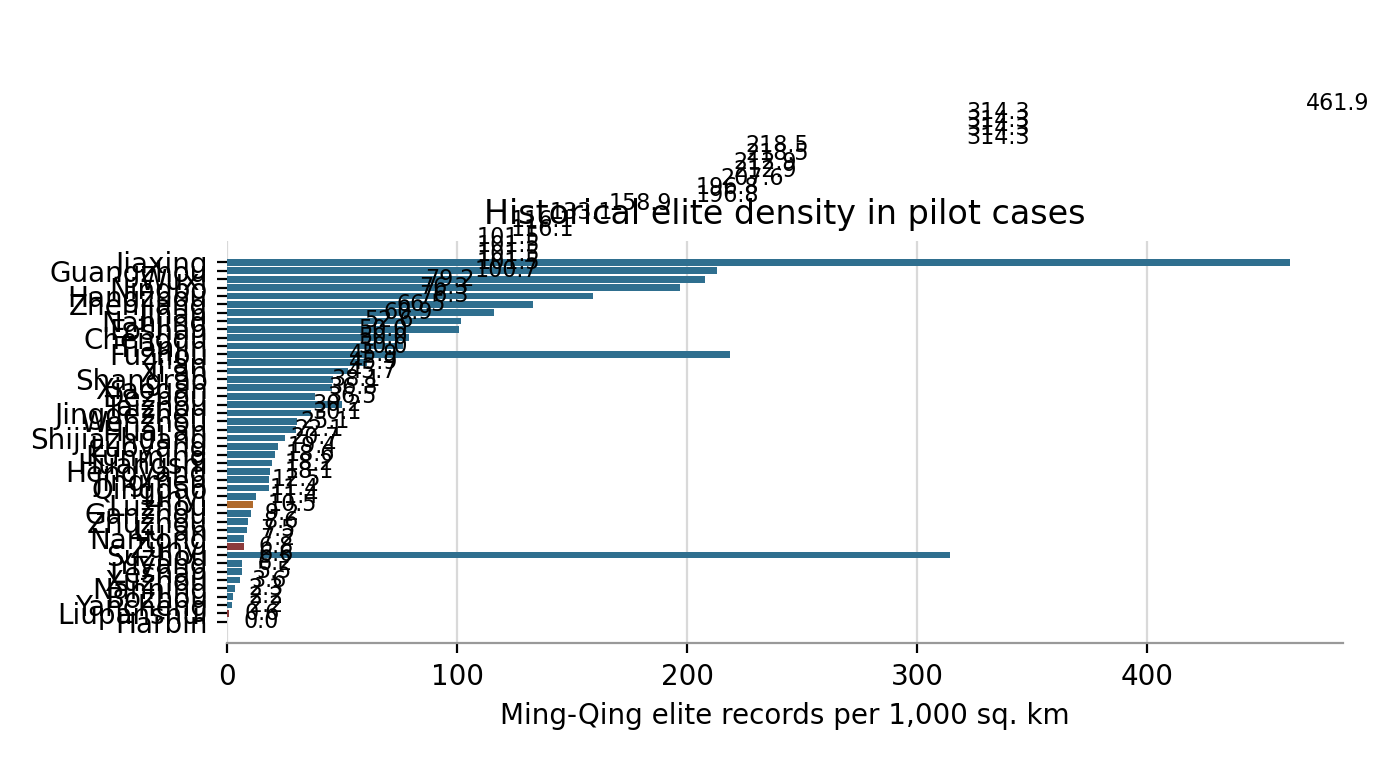
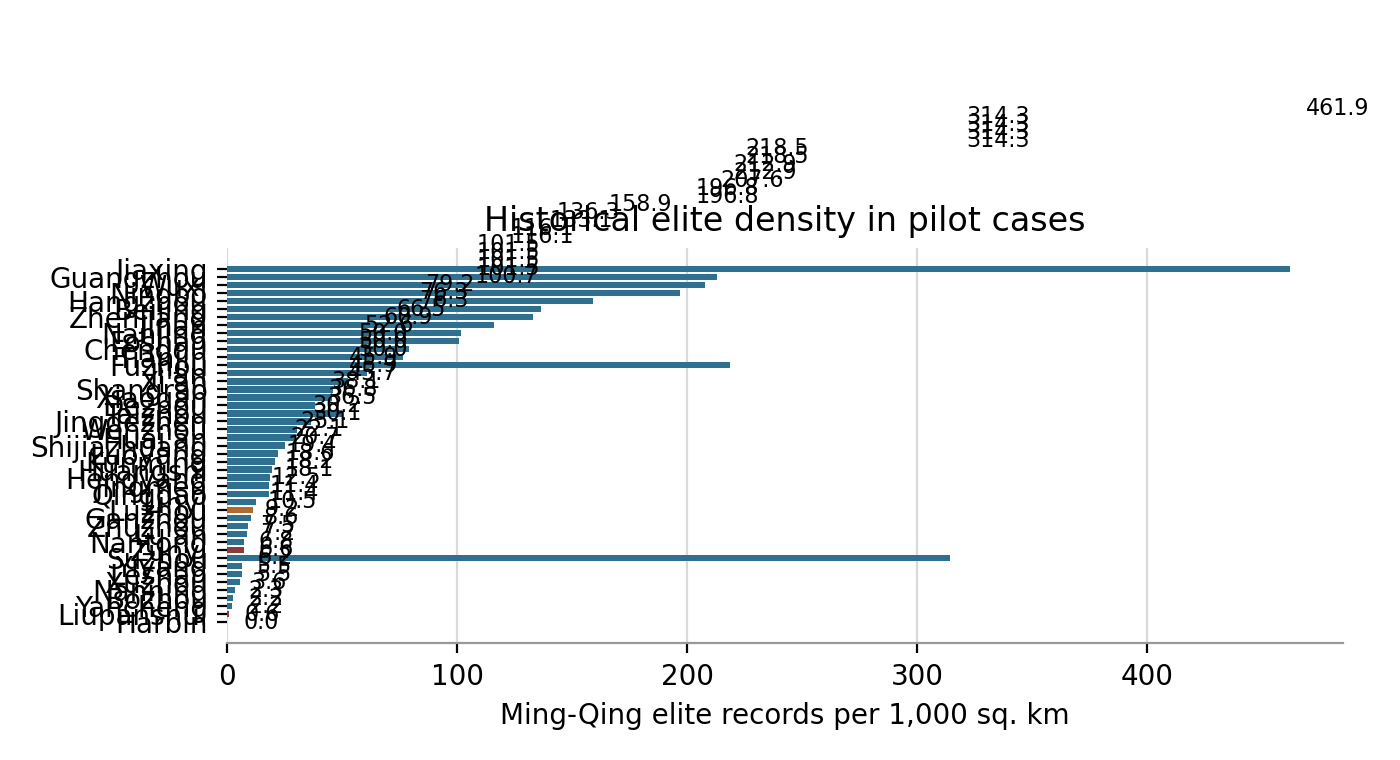
Promote surrogate queue cases to gold labels

Changed region(s): [[0.0, 0.1816, 0.9214, 0.8171], [0.6757, 0.1211, 0.7371, 0.2118], [0.9214, 0.1211, 0.9829, 0.1513]]

diff --git a/paper/sections/introduction.tex b/paper/sections/introduction.tex
@@ -86,23 +86,16 @@ financial news. Large language models generate preliminary labels under a
 fixed codebook, but final labels are assigned only after human review of the
 original documents.
 
-The current label file contains sixty-two human-validated city-platform
-cases and a seed pool of 257 candidate disclosures for later
-LLM-assisted screening. The validated labels already recover three distinct
-institutional outcomes. Guangzhou and Ningbo are coded as substantive exit.
-Hangzhou, Wenzhou, Foshan, and several reorganized platform cases are coded as
-functional transfer. Most validated cases are nominal exits, including
-transport, development-zone, cultural-tourism, county-level, and district
-platforms where no-government-financing language coexists with continuing
-public project functions. Jiaxing Jiaxiu shows this pattern even in a
-top-elite-density district. Guangzhou Metro and Nanjing Metro show that
-specialized rail platforms can retain public investment-financing functions
-even in high historical-capacity cities. Nanning adds a low-capacity
-western-capital case in which a real 2018 shift toward municipal fiscal funding
-for some projects coexists with shantytown government-purchase-service
-receivables, infrastructure assets, tolling, affordable-housing rental, and
-government support inside the same issuer group. A small descriptive comparison links the historically matched
-subset of these labels to historical-capacity bins. It is not yet a population
+The current label file contains sixty-eight human-validated city-platform
+cases and a seed pool of 257 candidate disclosures for LLM-assisted screening.
+The validated labels already recover three distinct institutional outcomes.
+Guangzhou and Ningbo are coded as substantive exit. Hangzhou, Wenzhou, Foshan,
+and several reorganized platform cases are coded as functional transfer. Most
+validated cases are nominal exits, including transport, development-zone,
+cultural-tourism, county-level, and district platforms where
+no-government-financing language coexists with continuing public project
+functions. A small descriptive comparison links the sixty-two historically
+matched labels to historical-capacity bins. It is not yet a population
 estimate, but it shows that the coding scheme recovers institutional variation
 and that the pilot already contains useful comparisons between high-capacity
 substantive cases and lower-capacity nominal cases.

diff --git a/paper/sections/empirical_strategy.tex b/paper/sections/empirical_strategy.tex
@@ -51,11 +51,11 @@ human-validated labels from candidate cases throughout the analysis.
 
 Table \ref{tab:pilot-validation-tiers} summarizes the validation status of the
 current evidence packets. The human-validated label file now contains
-sixty-two cases, and the broader screening file contains 257 disclosure rows.
-The descriptive tables in this section use the sixty validated cases that can
-currently be matched to the CBDB-GADM historical-capacity crosswalk. The two
-unmatched validated cases are both in Xinjiang, where the current crosswalk
-does not provide a usable prefecture-level historical-capacity match. This
+sixty-eight cases, and the broader screening file contains 257 disclosure rows.
+The descriptive tables in this section use the sixty-two validated cases that can
+currently be matched to the CBDB-GADM historical-capacity crosswalk. Six
+validated cases remain unmatched because the current crosswalk does not yet
+provide a usable historical-capacity match for those city or county entries. This
 keeps the pilot evidence auditable while making clear that source collection
 has moved beyond the original twelve-case demonstration.
 
@@ -180,7 +180,7 @@ Figure \ref{fig:pilot-exit-type-distribution} reports the exit-type
 distribution by validation tier. The figure is not a population estimate.
 Rather, it records the current evidence map for the historically matched pilot
 subset. The full human-validated label file now contains two substantive-exit
-cases, fifty nominal-exit cases, and ten functional-transfer cases. The
+cases, fifty-six nominal-exit cases, and ten functional-transfer cases. The
 strong candidates extend the same institutional range, but remain outside the
 final label file because they still require either a direct formal exit source
 or a scope decision about whether the issuer should be treated as a core LGFV
@@ -189,7 +189,7 @@ rather than a specialized infrastructure SOE.
 \input{figures/pilot_exit_type_distribution}
 
 Appendix Table \ref{tab:pilot-historical-capacity} reports the case-level
-CBDB-GADM elite-density match for sixty validated cases and three candidate
+CBDB-GADM elite-density match for sixty-two validated cases and three candidate
 cases \citep{cbdb2024,gadm2022}. The descriptive pattern is not a simple
 high-versus-low split. Guangzhou and Ningbo appear as substantive exit, while
 Hangzhou and Foshan appear as functional transfer, and Jinan and Chengdu
@@ -235,21 +235,21 @@ functions buried in bond documents, or produce no useful label when the
 candidate file contains only a disclosure-page title.
 
 The current screening file makes this separation explicit. It contains
-sixty-two human-validated gold-standard cases and 193 pending candidate
+sixty-eight human-validated gold-standard cases and 187 pending candidate
 disclosures. Applying the frozen codebook through a conservative Codex
-screening pass produces 79 surrogate disclosure-level labels and 114
+screening pass produces 73 surrogate disclosure-level labels and 114
 unresolved candidates. The surrogate labels are medium-confidence nominal-exit
 cases because the source packets pair no-government-financing language with
 continued evidence of public development, infrastructure construction,
 entrusted projects, land development, fiscal support, or state-asset functions.
-They correspond to 56 unique issuers because repeated
+They correspond to 52 unique issuers because repeated
 bond disclosures often describe the same platform. The analysis therefore
 treats them as disclosure-level surrogate labels until they are deduplicated
-or aggregated to the city-platform level. At the issuer level, 29 of these
+or aggregated to the city-platform level. At the issuer level, 31 of these
 issuers match platforms already present in the gold-standard file under
 different case IDs. This overlap is useful for checking whether the surrogate
 procedure recovers already validated nominal-exit cases, but it is not counted
-as new validation expansion. Twenty-seven non-overlap issuers remain queued for human
+as new validation expansion. Twenty-one non-overlap issuers remain queued for human
 review. Two province-level Zhejiang transportation disclosures are retained as
 boundary-reviewed packets rather than gold labels. The unresolved cases remain
 unresolved for two reasons: some have source packets but no direct formal exit

diff --git a/paper/sections/coding_strategy.tex b/paper/sections/coding_strategy.tex
@@ -127,7 +127,7 @@ mechanically imply nominal exit because the continued function may be located
 in a successor entity rather than the same issuer.
 
 Table~\ref{tab:pilot_cases} summarizes five illustrative human-validated pilot
-cases. The full label file now contains sixty-two validated labels; this
+cases. The full label file now contains sixty-eight validated labels; this
 table is not an empirical result or an exhaustive case list. Its purpose is to
 show how the same coding rule operates across different documentary patterns.
 
@@ -199,18 +199,18 @@ also requires the model to return \texttt{unclear} when the source packet lacks
 a formal event or lacks evidence about the post-event function.
 
 The Codex screening pass follows this rule conservatively. It keeps the
-sixty-two human-validated labels as gold-standard observations and applies the codebook
-only to pending candidates. The current pass screens 193 pending disclosures, produces
-79 surrogate disclosure-level labels, and leaves 114 cases unresolved. The
+sixty-eight human-validated labels as gold-standard observations and applies the codebook
+only to pending candidates. The current pass screens 187 pending disclosures, produces
+73 surrogate disclosure-level labels, and leaves 114 cases unresolved. The
 surrogate labels are nominal-exit cases. They contain direct
 no-government-financing language together with continuing evidence of urban
 infrastructure, entrusted construction, land development, fiscal support, or
-public-project functions. They correspond to 56 unique issuers because several
+public-project functions. They correspond to 52 unique issuers because several
 labels come from repeated bond disclosures for the same platform. The
 statistical analysis will therefore aggregate or deduplicate them at the issuer
-or city-platform level. Twenty-nine issuers exactly match issuers that
+or city-platform level. Thirty-one issuers exactly match issuers that
 already appear in the gold-standard label file under different case IDs. These
-overlaps are treated as consistency checks rather than new observations. Twenty-seven
+overlaps are treated as consistency checks rather than new observations. Twenty-one
 non-overlap issuers remain in the current human-validation queue. Two
 province-level Zhejiang transportation disclosures are boundary-reviewed and
 excluded from the city-platform gold-standard frame. The unresolved cases are not negative

diff --git a/paper/tables/pilot_validation_tiers.tex b/paper/tables/pilot_validation_tiers.tex
@@ -7,17 +7,17 @@
 \toprule
 Tier & Cases & Use in the paper \\
 \midrule
-Human-validated label file & 62 & Used as gold-standard labels \\
-Historically matched validated subset & 60 & Used for pilot descriptive tables \\
+Human-validated label file & 68 & Used as gold-standard labels \\
+Historically matched validated subset & 62 & Used for pilot descriptive tables \\
 Candidate disclosure pool & 257 & Used for LLM-assisted screening \\
 Boundary-reviewed packets & 2 & Used to define scope conditions \\
-Pending LLM/human validation & 193 & Used for future sample expansion \\
+Pending LLM/human validation & 187 & Used for future sample expansion \\
 \bottomrule
 \end{tabular}
 \begin{minipage}{0.96\linewidth}
 \vspace{0.5em}\footnotesize Notes: The historically matched subset is smaller
 than the full label file because the current CBDB-GADM crosswalk does not
-yet contain usable historical-capacity matches for two Xinjiang cases.
+yet contain usable historical-capacity matches for 6 validated cases.
 Candidate disclosures are issuer-disclosure rows rather than final
 city-platform labels.
 \end{minipage}

diff --git a/paper/main.tex b/paper/main.tex
@@ -38,9 +38,9 @@ govern projects and state assets after exit. The paper introduces an
 LLM-assisted, human-validated coding protocol using government documents,
 company disclosures, bond prospectuses, credit rating reports, legal opinions,
 and business registration records. The current label file contains
-sixty-two human-validated cases and is paired with a seed pool of 257
-candidate disclosures for later LLM-assisted screening. The
-validated cases show that identical official compliance language can
+sixty-eight human-validated cases and is paired with a seed pool of 257
+candidate disclosures for LLM-assisted screening. The validated cases show
+that identical official compliance language can
 correspond to distinct institutional outcomes.
 \end{abstract}
 

diff --git a/paper/tables/pilot_capacity_bin_exit_type.tex b/paper/tables/pilot_capacity_bin_exit_type.tex
@@ -7,12 +7,12 @@
 \toprule
 Historical capacity bin & Substantive & Nominal & Functional transfer & Total \\
 \midrule
-High historical capacity & 2 & 13 & 5 & 20 \\
+High historical capacity & 2 & 14 & 5 & 21 \\
 Middle historical capacity & 0 & 15 & 5 & 20 \\
-Low historical capacity & 0 & 20 & 0 & 20 \\
+Low historical capacity & 0 & 21 & 0 & 21 \\
 \bottomrule
 \end{tabular}
 \begin{minipage}{0.92\linewidth}
-\vspace{0.5em}\footnotesize Notes: The table uses only the 60 historically matched human-validated pilot labels. Capacity bins are assigned from the CBDB-GADM Ming-Qing elite-density measure among matched human-validated cases. Counts are descriptive and are not population estimates.
+\vspace{0.5em}\footnotesize Notes: The table uses only the 62 historically matched human-validated pilot labels. Capacity bins are assigned from the CBDB-GADM Ming-Qing elite-density measure among matched human-validated cases. Counts are descriptive and are not population estimates.
 \end{minipage}
 \end{table}

diff --git a/paper/sections/pilot_appendix.tex b/paper/sections/pilot_appendix.tex
@@ -19,7 +19,7 @@ text.
 
 Table \ref{tab:pilot-historical-capacity} reports the CBDB-GADM
 historical-capacity match used in the pilot analysis. The table includes the
-sixty historically matched validated cases and three candidate cases retained
+sixty-two historically matched validated cases and three candidate cases retained
 for comparison or future source collection.
 
 \input{tables/pilot_case_historical_capacity}
@@ -38,7 +38,7 @@ bureaucratic coordination, and project or state-asset governance.
 
 Table \ref{tab:pilot-source-audit} records the source trail behind the
 historically matched pilot labels. The full human-validated label file now
-contains sixty-two cases, and this table reports the sixty cases currently
+contains sixty-eight cases, and this table reports the sixty-two cases currently
 matched to the CBDB-GADM historical-capacity crosswalk. For each case, it
 lists the primary document used for the label, the formal exit or compliance event, the observed
 post-event function, and the final coding decision. The table is deliberately

diff --git a/scripts/build_pilot_capacity_summary.py b/scripts/build_pilot_capacity_summary.py
@@ -676,6 +676,7 @@ def write_tier_latex(rows: list[dict]) -> None:
         }
     )
     matched_count = len(validated_display_rows())
+    unmatched_count = max(human_count - matched_count, 0)
 
     OUT_TIER_TEX.parent.mkdir(parents=True, exist_ok=True)
     with OUT_TIER_TEX.open("w", encoding="utf-8") as handle:
@@ -707,7 +708,7 @@ def write_tier_latex(rows: list[dict]) -> None:
             "\\begin{minipage}{0.96\\linewidth}\n"
             "\\vspace{0.5em}\\footnotesize Notes: The historically matched subset is smaller\n"
             "than the full label file because the current CBDB-GADM crosswalk does not\n"
-            "yet contain usable historical-capacity matches for two Xinjiang cases.\n"
+            f"yet contain usable historical-capacity matches for {unmatched_count} validated cases.\n"
             "Candidate disclosures are issuer-disclosure rows rather than final\n"
             "city-platform labels.\n"
             "\\end{minipage}\n"

diff --git a/paper/sections/research_design.tex b/paper/sections/research_design.tex
@@ -60,7 +60,7 @@ main historical-capacity effect. Its purpose is to validate the measurement
 scheme, identify ambiguous cases, and discipline the larger source-collection
 process.
 
-The current label file contains sixty-two human-validated cases. The validated
+The current label file contains sixty-eight human-validated cases. The validated
 labels recover all three non-liquidation outcomes observed so far. Guangzhou
 City Construction Investment Group and Ningbo Development Investment Group are
 coded as substantive exit because the reviewed disclosures show movement away

diff --git a/paper/tables/pilot_case_historical_capacity.tex b/paper/tables/pilot_case_historical_capacity.tex
@@ -24,6 +24,7 @@ Wuxi & Human-validated & Functional transfer & 207.55 \\
 Ningbo & Human-validated & Substantive exit & 196.82 \\
 Ningbo & Human-validated & Nominal exit & 196.82 \\
 Hangzhou & Human-validated & Functional transfer & 158.93 \\
+Beijing & Human-validated & Nominal exit & 136.30 \\
 Zhenjiang & Human-validated & Nominal exit & 133.11 \\
 Jinan & Human-validated & Nominal exit & 116.10 \\
 Jinan & Human-validated & Nominal exit & 116.10 \\
@@ -67,6 +68,7 @@ Zunyi & Weak-capacity candidate & Source started & 7.21 \\
 Suzhou & Human-validated & Nominal exit & 6.80 \\
 Yiyang & Human-validated & Nominal exit & 6.56 \\
 Leshan & Human-validated & Nominal exit & 6.24 \\
+Xuzhou & Human-validated & Nominal exit & 5.52 \\
 Xuzhou & Human-validated & Nominal exit & 5.52 \\
 Nanning & Human-validated & Nominal exit & 3.61 \\
 Bozhou & Human-validated & Nominal exit & 2.33 \\

diff --git a/paper/tables/pilot_mechanism_evidence.tex b/paper/tables/pilot_mechanism_evidence.tex
@@ -26,6 +26,7 @@ Wuxi & Functional transfer & Evidence not separately mechanism-coded in the curr
 Ningbo & Substantive exit & Negative evidence shows no government purchase service, BT, PPP, land preparation, or fiscal repayment. & Issuer-level compliance evidence is strong; an independent list source is still missing. & No major continuing platform function is found; a residual receivable is treated as engineering background. \\
 Ningbo & Nominal exit & Evidence not separately mechanism-coded in the current pilot table. & Evidence not separately mechanism-coded in the current pilot table. & Formal no-government-financing language coexists with continued use of the same legal issuer as a core Yuyao public-development platform. The company remains important for land development, resettlement housing, public utilities, and municipal infrastructure, receives local-government support through asset injections and subsidies, and links public-project revenue to budgeted subsidies and government-authorized operating rights. \\
 Hangzhou & Functional transfer & Debt succession and asset transfer occurred through formal reorganization. & Qiantou transfer, city-investment consolidation, and Anju creation link multiple municipal entities. & Public project and housing functions moved within the municipal platform system. \\
+Beijing & Nominal exit & Evidence not separately mechanism-coded in the current pilot table. & Evidence not separately mechanism-coded in the current pilot table. & Formal no-government-financing and no-local-government-debt language coexists with continuing evidence that Beijing Future Science City remains the core development body for land primary development, infrastructure, resettlement housing, project development, special-bond-funded land work, government capital injections, subsidies, and policy support. Official compliance therefore does not amount to functional disappearance of the regional development-platform role. \\
 Zhenjiang & Nominal exit & Evidence not separately mechanism-coded in the current pilot table. & Evidence not separately mechanism-coded in the current pilot table. & The 2023 restructuring created an industrial-investment holding group and contains formal government-financing-function stripping language. But the same group system continues to show traffic infrastructure construction, land , fiscal-payment arrangements, government-linked receivables, and repurchase-payment risk. The corporate label changed more clearly than the quasi-fiscal development function, so this is coded as nominal exit. \\
 Jinan & Nominal exit & Land-preparation gains and fiscal subsidies compensate the issuer. & Non-platform-list disclosure is present; the original list basis has not yet been collected. & Land preparation, government authorization, infrastructure, affordable housing, and entrusted assets continue. \\
 Jinan & Nominal exit & Evidence not separately mechanism-coded in the current pilot table. & Evidence not separately mechanism-coded in the current pilot table. & Formal no-government-financing language coexists with continuing engineering construction, land preparation, and delegated infrastructure-construction functions. The issuer discloses PPP and BT or entrusted-construction arrangements, a historical project placed under hidden-debt management and resolved, government receivables, land injected by public authorities, and current Jinan Start-up Area infrastructure projects operated through entrusted construction and settlement with public-sector counterparties. \\
@@ -68,6 +69,7 @@ Suzhou & Nominal exit & Evidence not separately mechanism-coded in the current p
 Yiyang & Nominal exit & Evidence not separately mechanism-coded in the current pilot table. & Evidence not separately mechanism-coded in the current pilot table. & Marketization and government-financing-function stripping coexist with continuing transport infrastructure, road and bridge buyback receivables, delegated construction, finance-bureau repayment, fiscal-funded BT legacy projects, government receivables, fiscal subsidies, and city-level infrastructure operation. The same issuer remains central to public project construction, so the exit is coded as nominal exit. \\
 Leshan & Nominal exit & Evidence not separately mechanism-coded in the current pilot table. & Evidence not separately mechanism-coded in the current pilot table. & This is a direct formal transfer-out case, but the same issuer remains Leshan's most important infrastructure and state-asset management body and continues municipal infrastructure, affordable housing, transport infrastructure, land development, entrusted construction, government purchase service, PPP projects, government receivables, and subsidy-dependent operations. The formal exit therefore did not remove the issuer from public-development finance. \\
 Xuzhou & Nominal exit & Budgeted government-purchase payments, fiscal subsidies, and project-repurchase support remain visible. & Issuer no-government-financing language is present; a direct government list source is still missing. & Shantytown redevelopment, water infrastructure, land preparation, and entrusted construction continue. \\
+Xuzhou & Nominal exit & Evidence not separately mechanism-coded in the current pilot table. & Evidence not separately mechanism-coded in the current pilot table. & Formal no-government-financing and no-local-government-debt language coexists with continuing evidence that the same Xuzhou development-zone issuer remains a platform for land-level development, resettlement housing, infrastructure engineering, entrusted construction, government-related receivables, and fiscal subsidy exposure. Official compliance therefore does not amount to functional exit. \\
 Nanning & Nominal exit & Since 2018 some designated municipal project funds are arranged by municipal finance, while shantytown government-purchase-service receivables remain fiscal-payment dependent. & Nanning SASAC, municipal finance, housing and construction authorities, and platform subsidiaries are linked through project-owner designation, government purchase service, and state-capital support. & Urban roads, bridges, key municipal projects, shantytown redevelopment, affordable housing, tolling, receivables, and injected assets remain inside the issuer group. \\
 Bozhou & Nominal exit & Evidence not separately mechanism-coded in the current pilot table. & Evidence not separately mechanism-coded in the current pilot table. & Formal no-government-financing and no-local-government-debt language coexists with continuing land development, agency construction, government purchase service, fiscal settlement, government receivables, and subsidy-backed public-development functions. The same issuer group remains tied to Bozhou public investment after the formal compliance event. \\
 Yancheng & Nominal exit & Government-supported affordable housing and real-business-background government receivables remain visible. & Issuer compliance language is present; a separate platform-list source is still missing. & Land preparation, infrastructure entrusted construction, and affordable housing continue. \\

diff --git a/paper/tables/pilot_source_audit.tex b/paper/tables/pilot_source_audit.tex
@@ -26,6 +26,7 @@ Wuxi & 2026 MTN disclosure, lines 1052-1092;2097-2126;2140-2166;3901-3907;3945-3
 Ningbo & 2026 prospectus, lines 927-932 & 2015 no-government-financing language and explicit absence of core platform businesses & No major continuing platform function found in the prospectus; residual engineering receivable disclosed as non-financing background & Substantive exit \\
 Ningbo & 2026 MTN disclosure, lines 1162-1168;1179-1196;4005-4020 & Prospectus states that the company does not undertake government financing functions and that new debt after January 1 2015 is not local government debt; the same compliance section reports finance-bureau confirmation that the issuance will not add local-government or hidden debt. & Formal no-government-financing language coexists with continued use of the same legal issuer as a core Yuyao public-development platform. The company remains important for land development, resettlement housing, public utilities, and municipal infrastructure, receives local-government support through asset injections and subsidies, and links public-project revenue to budgeted subsidies and government-authorized operating rights. & Nominal exit \\
 Hangzhou & 2024 prospectus, lines 1188-1192;222-228;272-288 & 2022 reorganization through Qiantou equity transfer and Anju creation & public project and debt functions continued inside enlarged city investment system & Functional transfer \\
+Beijing & 0051 source document, lines 1582-1582;3176-3176;226-264;699-700 & Prospectus and legal-opinion disclosures state that the issuer does not undertake government financing functions, that new debt after January 1 2015 is not local-government debt, and that the current project-revenue note will not add local-government or hidden debt. & Formal no-government-financing and no-local-government-debt language coexists with continuing evidence that Beijing Future Science City remains the core development body for land primary development, infrastructure, resettlement housing, project development, special-bond-funded land work, government capital injections, subsidies, and policy support. Official compliance therefore does not amount to functional disappearance of the regional development-platform role. & Nominal exit \\
 Zhenjiang & 2026 source document, lines 138-145;366-380;397-400;642-645;650-668;953-980;996-1022;1140-1173 & Zhenjiang municipal government issued the 2023 notice establishing Zhenjiang Industrial Investment Holding Group through the reorganization of Zhenjiang Guotou Real Estate Development, the transfer of Zhenjiang State-Owned Investment Holding Group and a 55 percent stake in Zhenjiang Transportation Industry Group, and related asset stripping and injection. & The 2023 restructuring created an industrial-investment holding group and contains formal government-financing-function stripping language. But the same group system continues to show traffic infrastructure construction, land , fiscal-payment arrangements, government-linked receivables, and repurchase-payment risk. The corporate label changed more clearly than the quasi-fiscal development function, so this is coded as nominal exit. & Nominal exit \\
 Jinan & 2025 prospectus, lines 1193-1199;4572-4573 & 2015 no-government-financing language and not in banking-regulator platform list & land preparation government authorization infrastructure affordable housing fiscal compensation and historical entrusted construction assets & Nominal exit \\
 Jinan & 2026 SCP disclosure, lines 954-960;1062-1068 & Prospectus states that the issuer does not undertake government financing functions and that new debt after January 1 2015 is not local government debt; the same compliance section reports that the statement was confirmed with the Jinan Finance Bureau. & Formal no-government-financing language coexists with continuing engineering construction, land preparation, and delegated infrastructure-construction functions. The issuer discloses PPP and BT or entrusted-construction arrangements, a historical project placed under hidden-debt management and resolved, government receivables, land injected by public authorities, and current Jinan Start-up Area infrastructure projects operated through entrusted construction and settlement with public-sector counterparties. & Nominal exit \\
@@ -68,6 +69,7 @@ Suzhou & 2026 MTN disclosure, lines 803-816;860-878;4506-4523;4555-4593;8024-803
 Yiyang & 2026 MTN disclosure, lines 23;1100;1108-1118;1134-1143;1184-1185;1877-1884;2027-2044;2614-2622;2664-2669;3272-3273;3471-3472;5192-5193;5240-5245 & Prospectus disclosures state that the issuer stripped government financing functions and transformed into a marketized self-operating entity; a 2019 city-level platform transformation plan transferred the shareholder from the Finance Bureau to SASAC. & Marketization and government-financing-function stripping coexist with continuing transport infrastructure, road and bridge buyback receivables, delegated construction, finance-bureau repayment, fiscal-funded BT legacy projects, government receivables, fiscal subsidies, and city-level infrastructure operation. The same issuer remains central to public project construction, so the exit is coded as nominal exit. & Nominal exit \\
 Leshan & 2026 SCP disclosure, lines 813-818;1151-1153;1164-1175;1184-1185;3601-3653 & Prospectus disclosures state that the issuer was transferred out of the local government financing platform customer list by a 2011 Sichuan CBRC notice and was managed as a rectified general-company loan customer; later disclosures state that it does not undertake government financing functions after January 1 2015. & This is a direct formal transfer-out case, but the same issuer remains Leshan's most important infrastructure and state-asset management body and continues municipal infrastructure, affordable housing, transport infrastructure, land development, entrusted construction, government purchase service, PPP projects, government receivables, and subsidy-dependent operations. The formal exit therefore did not remove the issuer from public-development finance. & Nominal exit \\
 Xuzhou & 2026 prospectus, lines 1395-1398 & 2015 no-government-financing language & shantytown redevelopment municipal water facilities land preparation government purchase service entrusted construction and fiscal subsidies & Nominal exit \\
+Xuzhou & 0015 source document, lines 1457-1460;153-155;570-577;597-600;645-675 & Prospectus and legal-opinion disclosures state that the issuer does not undertake government financing functions, that new debt after January 1 2015 is not local-government debt, and that the current debt instrument will not add local-government or hidden debt. & Formal no-government-financing and no-local-government-debt language coexists with continuing evidence that the same Xuzhou development-zone issuer remains a platform for land-level development, resettlement housing, infrastructure engineering, entrusted construction, government-related receivables, and fiscal subsidy exposure. Official compliance therefore does not amount to functional exit. & Nominal exit \\
 Nanning & 2023 prospectus, lines 5216-5231;5204-5215 & 2018 no-government-financing and no-hidden-debt language after Nanning SASAC consultation & Nanning urban infrastructure road and bridge key-project shantytown redevelopment government-purchase-service receivables tolling affordable-housing rental and government-support functions continue inside the issuer group & Nominal exit \\
 Bozhou & 0027 source document, lines 970-986;1121-1161;2078-2117;2292-2305;2333-2368;2428-2435;3468-3481;10032-10036;10245-10259;10287-10324;19362-19368;22136-22172;22303-22330 & Prospectus and legal-opinion disclosures state that the issuer does not undertake government financing functions and that new debt after January 1 2015 is not local-government debt; the local state acts only as shareholder with limited liability. & Formal no-government-financing and no-local-government-debt language coexists with continuing land development, agency construction, government purchase service, fiscal settlement, government receivables, and subsidy-backed public-development functions. The same issuer group remains tied to Bozhou public investment after the formal compliance event. & Nominal exit \\
 Yancheng & 2025 prospectus, lines 928-929 & 2015 no-government-financing language & land preparation infrastructure entrusted construction and affordable housing work & Nominal exit \\